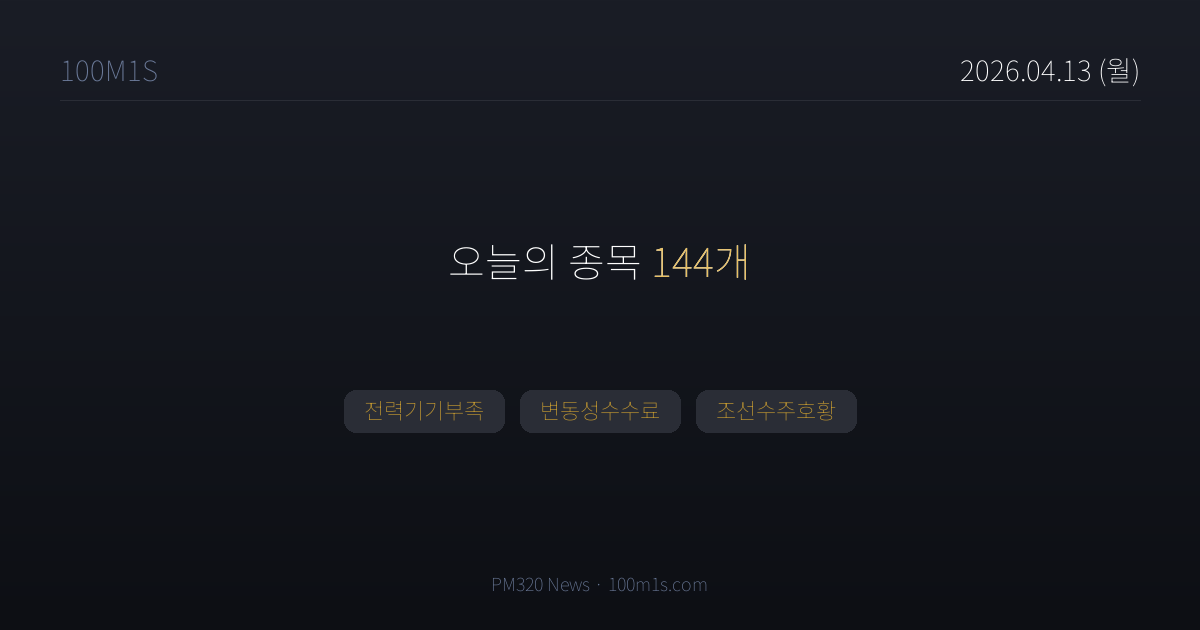
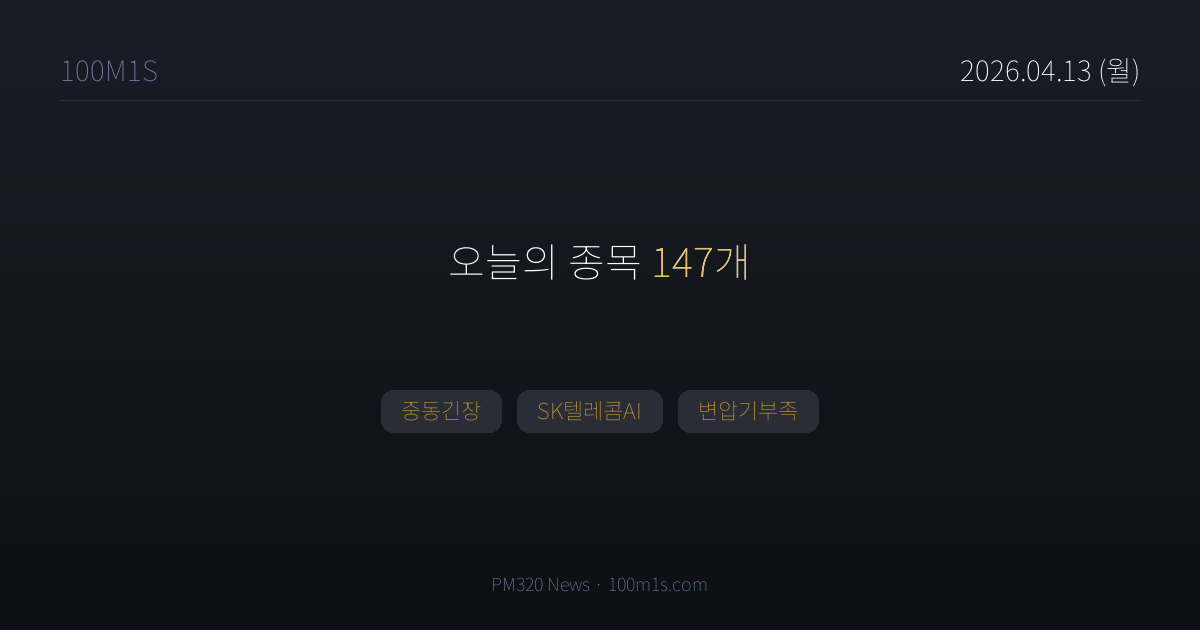
chore(news): 2026-04-13T09:44 pipeline

Changed region(s): [[0.2775, 0.6032, 0.74, 0.6937], [0.5858, 0.3921, 0.6167, 0.4222]]

diff --git a/news/2026-04-13.html b/news/2026-04-13.html
@@ -3,8 +3,8 @@
 <head>
 <meta charset="UTF-8">
 <title>4월 13일 (월) 뉴스 — 100M1S</title>
-<meta property="og:title" content="4월 13일 (월) · 종목 144개">
-<meta property="og:description" content="전력기기부족, 변동성수수료, 조선수주호황">
+<meta property="og:title" content="4월 13일 (월) · 종목 147개">
+<meta property="og:description" content="중동긴장, SK텔레콤AI, 변압기부족">
 <meta property="og:image" content="https://100m1s.com/og/2026-04-13.png">
 <meta property="og:image:width" content="1200">
 <meta property="og:image:height" content="630">
